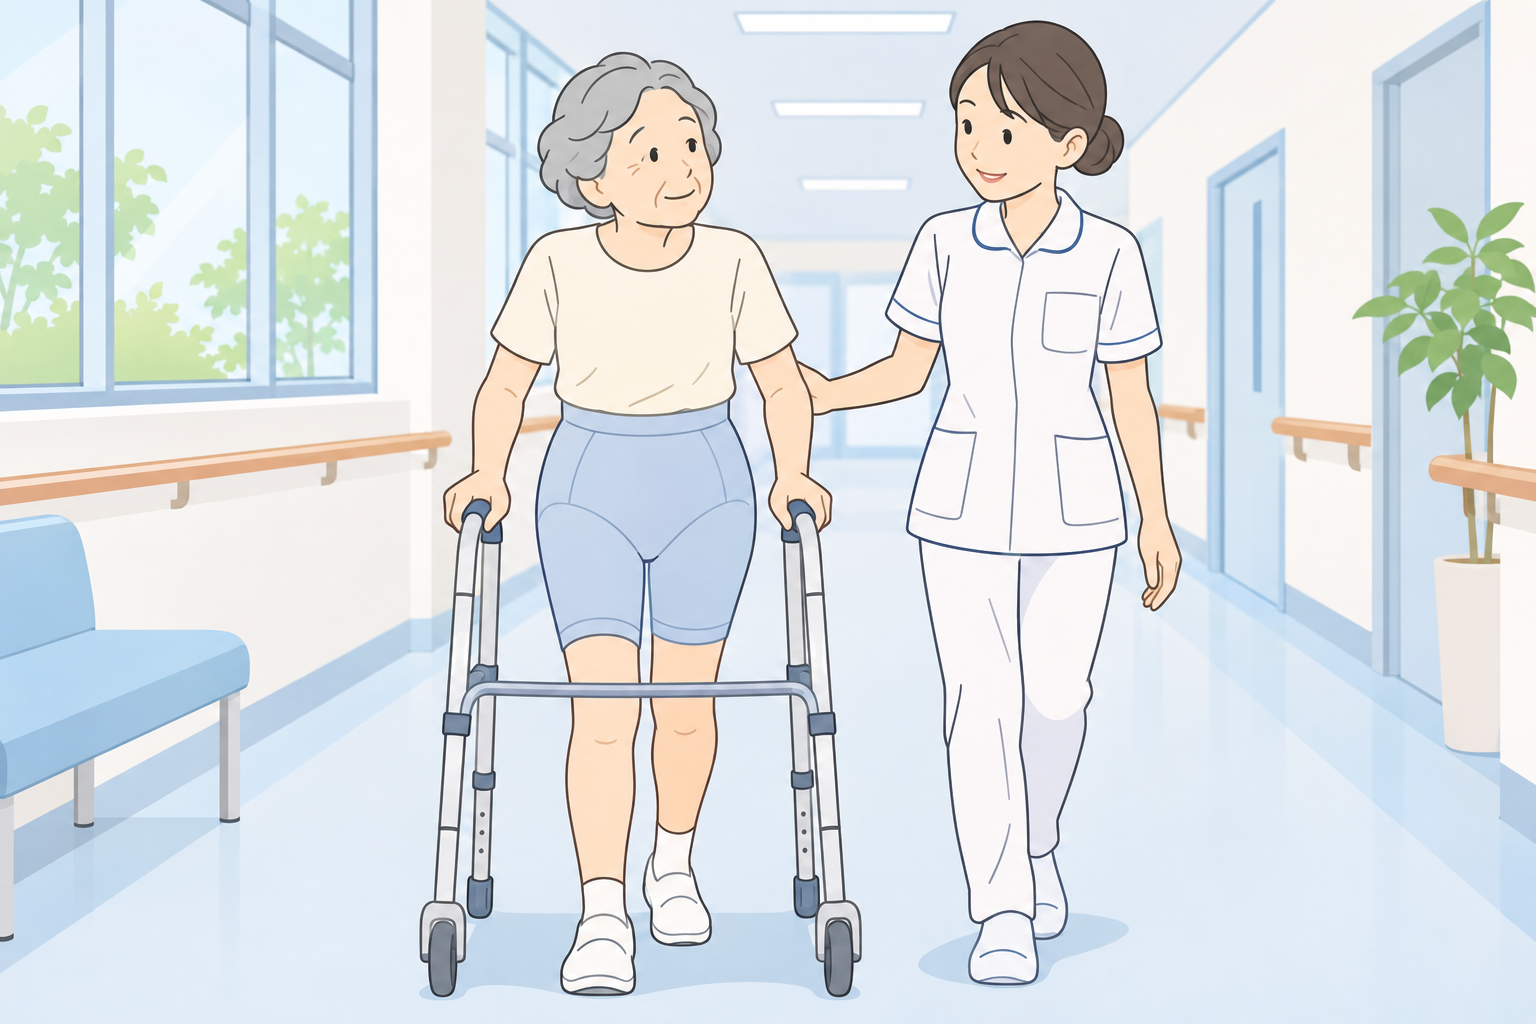
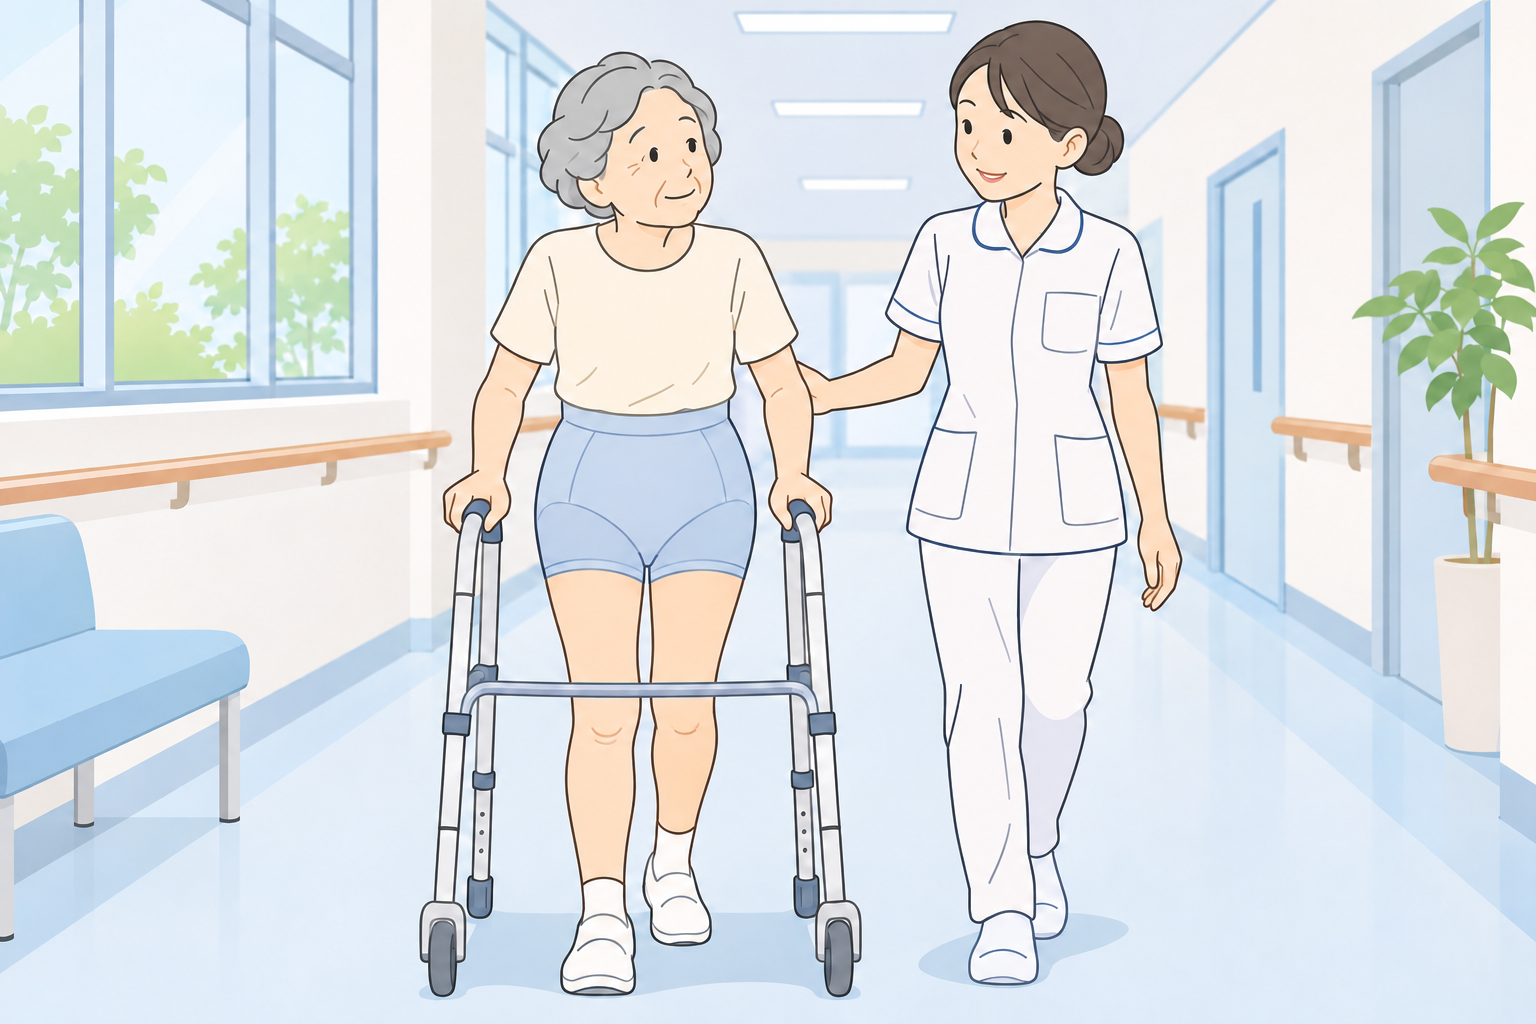
着用シーン6枚をサポーターの裾が短い版に差し替え（本番反映済み）
- 元の構図・人物・背景は維持したまま、裾を太ももの上部で終わる丈に作り直し
- 模式図6枚は変更なし
- サポーターサイト・会社サイトとも本番反映および氏名削除の反映を完了

Changed region(s): [[0.3125, 0.5, 0.5, 0.6875], [0.75, 0.5312, 0.7812, 0.5625]]

diff --git a/assets/images/image-brief_2026-11-03.md b/assets/images/image-brief_2026-11-03.md
@@ -93,6 +93,13 @@ WebP(1200px幅・q82)は `site/images/illust-*.webp`。
 **文字入り画像なし**を全12枚で確認。実製品の外観は再現していない（汎用スパッツ型）。
 各図には `<figcaption>` で「※イラストはイメージです」を付与済み。
 
+
+### 2026-11-03 修正：サポーターの丈を短くした（ユーザー指示）
+
+着用シーン6枚すべてを **裾が太ももの上部で終わる短い丈** に作り直した（元の構図・人物・背景は維持）。
+`assets/images/gen20261103/illust-*-wear.png` と `site/images/illust-*-wear.webp` は**この短い丈の版が正**。
+模式図6枚は変更なし。
+
 ### 作業上の注意（次回のため）
 
 - ChatGPTの生成画像は **`navigator.clipboard.write` 経由だとOSのペーストボードが更新されず、
